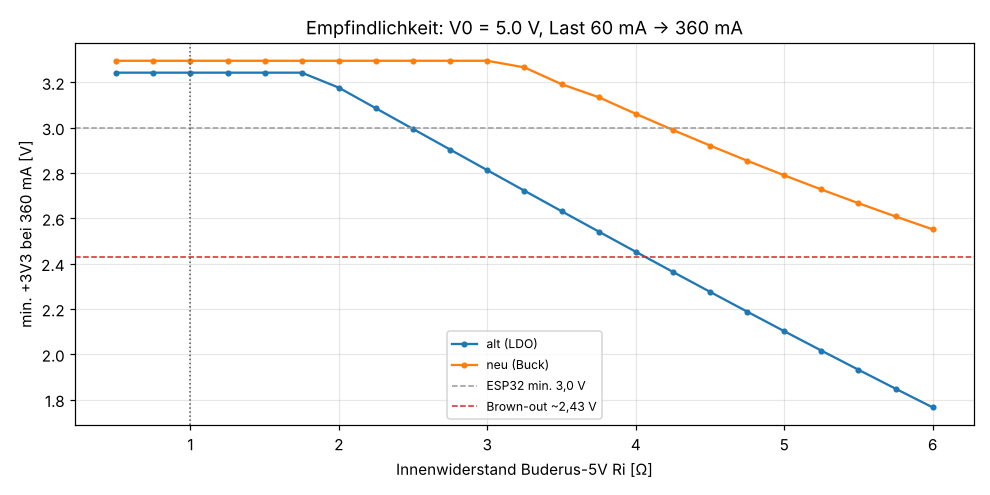
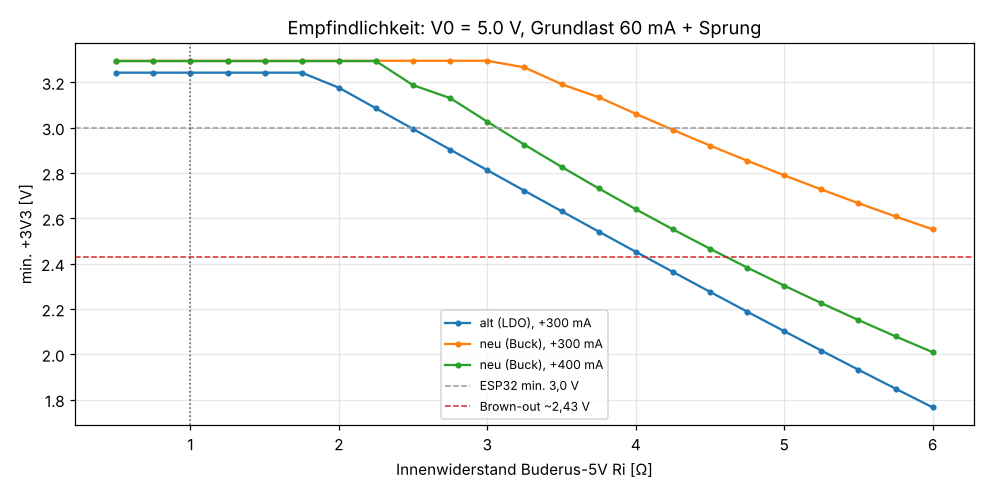
docs(power-analysis): buck simulation with 400 mA step (ESP32-S3 worst case)
Claude-Session: https://claude.ai/code/session_012skVH8CvU3SPyrYKeNYm1z

diff --git a/DOC/Power-Analysis/sim.py b/DOC/Power-Analysis/sim.py
@@ -18,6 +18,7 @@ V0     = 5.0      # Buderus 5 V rail, no-load (issue dewenni#57: 5.0..5.1 V meas
 RI     = 1.0      # assumed source impedance of the Buderus 5 V incl. slot contact
 I_BASE = 0.060    # ESP32 idle / WiFi RX, at 3V3
 I_STEP = 0.300    # load step (WiFi TX burst), at 3V3
+I_STEP_S3 = 0.400 # ESP32-S3 worst case: 355 mA TX peak + CPU/peripherals, at 3V3
 T_ON, T_OFF, T_END = 1e-3, 6e-3, 9e-3
 TR = 1e-6         # edge time of the load step
 BOD = 2.43        # ESP32 / ESP32-S3 brown-out level 0 / 7 (~2.43 / 2.44 V)
@@ -151,16 +152,19 @@ def zoom(results, fname):
         for i, (t0, lab) in enumerate([(T_ON, "Lastsprung +300 mA"), (T_OFF, "Lastabwurf −300 mA")]):
             m = (t > t0 - 50e-6) & (t < t0 + 400e-6)
             ax[i].plot((t[m] - t0) * 1e6, c[m, 2], label=k)
-            ax[i].set_title(lab); ax[i].set_xlabel("Zeit ab Flanke [µs]"); ax[i].grid(alpha=.3)
+            ax[i].set_title(lab.replace('300 mA', 'Sprung')); ax[i].set_xlabel("Zeit ab Flanke [µs]"); ax[i].grid(alpha=.3)
     ax[0].set_ylabel("+3V3 [V]"); ax[0].legend()
     fig.tight_layout(); fig.savefig(os.path.join(HERE, fname), dpi=110); plt.close(fig)
 
 def sweep(fname):
     ris = np.round(np.arange(0.5, 6.01, 0.25), 2)
-    res = {"alt (LDO)": [], "neu (Buck)": []}
+    cases = (("alt (LDO), +300 mA", old_circuit, I_STEP),
+             ("neu (Buck), +300 mA", new_circuit, I_STEP),
+             ("neu (Buck), +400 mA", new_circuit, I_STEP_S3))
+    res = {k: [] for k, _, _ in cases}
     for ri in ris:
-        for k, f in (("alt (LDO)", old_circuit), ("neu (Buck)", new_circuit)):
-            t, c = run(f(V0, ri))
+        for k, f, i_step in cases:
+            t, c = run(f(V0, ri, i_step))
             res[k].append(c[(t > T_ON), 2].min())
     fig, ax = plt.subplots(figsize=(9, 4.5))
     for k, v in res.items():
@@ -168,8 +172,8 @@ def sweep(fname):
     ax.axhline(VMIN_SPEC, color="#999", ls="--", lw=1, label="ESP32 min. 3,0 V")
     ax.axhline(BOD, color="#d62728", ls="--", lw=1, label="Brown-out ~2,43 V")
     ax.axvline(RI, color="#555", ls=":", lw=1)
-    ax.set_xlabel("Innenwiderstand Buderus-5V Ri [Ω]"); ax.set_ylabel("min. +3V3 bei 360 mA [V]")
-    ax.set_title(f"Empfindlichkeit: V0 = {V0} V, Last 60 mA → 360 mA")
+    ax.set_xlabel("Innenwiderstand Buderus-5V Ri [Ω]"); ax.set_ylabel("min. +3V3 [V]")
+    ax.set_title(f"Empfindlichkeit: V0 = {V0} V, Grundlast 60 mA + Sprung")
     ax.grid(alpha=.3); ax.legend(fontsize=8)
     fig.tight_layout(); fig.savefig(os.path.join(HERE, fname), dpi=110); plt.close(fig)
     return ris, res
@@ -181,9 +185,14 @@ if __name__ == "__main__":
     t2, c2 = run(new_circuit())
     s2 = plot_case(t2, c2, f"NEU: D9 + TPS62162-Buck, V0 = {V0} V, Ri = {RI} Ω, Last 60 → 360 mA",
                    "buck_1ohm.png", extra=c2[:, 5])
-    zoom({"alt (LDO)": (t1, c1), "neu (Buck)": (t2, c2)}, "zoom_edges.png")
+    t3, c3 = run(new_circuit(V0, RI, I_STEP_S3))
+    s3 = plot_case(t3, c3, f"NEU: D9 + TPS62162-Buck, V0 = {V0} V, Ri = {RI} Ω, Last 60 → 460 mA (S3)",
+                   "buck_1ohm_400mA.png", extra=c3[:, 5])
+    zoom({"alt (LDO), +300 mA": (t1, c1), "neu (Buck), +300 mA": (t2, c2),
+          "neu (Buck), +400 mA": (t3, c3)}, "zoom_edges.png")
     ris, res = sweep("sweep_ri.png")
     print("OLD", {k: round(float(v), 3) for k, v in s1.items()})
     print("NEW", {k: round(float(v), 3) for k, v in s2.items()})
+    print("NEW400", {k: round(float(v), 3) for k, v in s3.items()})
     for k, v in res.items():
         print(k, " ".join(f"{r}:{x:.2f}" for r, x in zip(ris, v)))

diff --git a/DOC/Power-Analysis/README.md b/DOC/Power-Analysis/README.md
@@ -8,6 +8,7 @@ Stand: 2026-11-17. Simulation mit ngspice und Verhaltensmodellen, Skript: [`sim.
 - **Das alte Design hat aber wenig Reserve.** Ab etwa **1,8 Ω** fällt der LDO aus der Regelung, und +3V3 sinkt linear mit Ri. Unter 3,0 V (ESP32-Minimum) geht es ab etwa **2,5 Ω**, der Brown-out wird bei etwa **4 Ω** erreicht.
 - **Der Buck (TPS62162 hinter D9) ist deutlich robuster.** Er regelt bis etwa **3 Ω** sauber auf 3,30 V, fällt erst ab etwa 4,2 Ω unter 3,0 V und erreicht bis 6 Ω keinen Brown-out. Der Einbruch am Lastsprung beträgt nur etwa 5 mV.
 - **Der Buck zieht weniger Strom aus der Buderus:** 292 mA statt 365 mA bei 360 mA Last an +3V3. Dadurch fällt auch an Ri weniger ab, obwohl D9 zusätzlich etwa 0,38 V kostet.
+- **ESP32-S3-Worst-Case mit +400 mA (60 → 460 mA):** Der Buck hält +3V3 bei 1 Ω weiterhin auf 3,29 V und zieht 386 mA aus der Buderus. Er regelt bis etwa **2,25 Ω** sauber, der Brown-out kommt erst bei etwa **4,6 Ω** ([Details](#neu-mit-400-ma-sprung-esp32-s3-worst-case)).
 
 Die Vermutung, dass 1 Ω allein den ESP32 an den Brown-out bringt, bestätigt die Simulation also **nicht**. Damit Nutzer mit dem alten Board Resets sehen, muss die effektive Quellimpedanz zeitweise deutlich größer sein (≥ 2…4 Ω) oder die Leerlaufspannung niedriger. Mögliche Ursachen siehe [Diskussion](#diskussion).
 
@@ -66,6 +67,24 @@ U2 (AZ1117) und R79 sind im neuen Stand DNP und nicht modelliert.
 - Strom aus der Buderus: **292 mA** bei 360 mA an +3V3 (Wirkungsgrad im Modell: Buck ≈ 94 %, inklusive D9 ≈ 86 %)
 - +3V3: Einbruch **< 5 mV**. Die 220-µF-Polymer-Elkos glätten den Sprung fast vollständig.
 
+## Neu mit 400-mA-Sprung (ESP32-S3-Worst-Case)
+
+Der S3 zieht beim Senden bis zu 355 mA, dazu kommen CPU und Peripherie (siehe [ESP32 vs. ESP32-S3](#esp32-vs-esp32-s3-stromaufnahme)). Deshalb wurde das neue Design zusätzlich mit einem Sprung von **+400 mA** simuliert (60 → 460 mA an +3V3), bei sonst gleichen Bedingungen (V0 = 5,0 V, Ri = 1 Ω).
+
+![Buck 400 mA](buck_1ohm_400mA.png)
+
+| Größe | +300 mA | +400 mA |
+|---|---|---|
+| Strom aus der Buderus | 292 mA | 386 mA |
+| Steckplatz J1 min. | 4,71 V | 4,61 V |
+| +5V hinter D9 min. | 4,32 V | 4,20 V |
+| +3V3 Einbruch | < 5 mV | < 7 mV |
+| Regelt sauber bis Ri ≈ | 3,0 Ω | 2,25 Ω |
+| unter 3,0 V ab Ri ≈ | 4,2 Ω | 3,1 Ω |
+| Brown-out ab Ri ≈ | > 6 Ω | 4,6 Ω |
+
+Auch mit 400 mA bleibt der Buck bei 1 Ω weit von jeder Grenze entfernt. Er zieht dann etwa so viel Strom aus der Buderus (386 mA) wie das alte LDO-Board bei nur 300 mA (365 mA). Die Reserve gegenüber Ri ist aber kleiner: Ab etwa 2,25 Ω läuft der Buck in den 100-%-Modus, und ab etwa 4,6 Ω erreicht +3V3 den Brown-out. Das sind immer noch gut 0,5 Ω mehr als beim alten Board mit dem kleineren Sprung.
+
 ## Flanken im Detail
 
 ![Zoom](zoom_edges.png)
@@ -76,14 +95,15 @@ Das Überschwingen des LDO stammt zum Teil vom einfachen Regelkreismodell. Die G
 
 ![Sweep](sweep_ri.png)
 
-| Ri | min. +3V3 alt (LDO) | min. +3V3 neu (Buck) |
-|---|---|---|
-| 1,0 Ω | 3,24 V | 3,30 V |
-| 2,0 Ω | 3,18 V | 3,30 V |
-| 3,0 Ω | 2,81 V | 3,30 V |
-| 4,0 Ω | 2,45 V (Brown-out-Grenze) | 3,06 V |
-| 5,0 Ω | 2,10 V | 2,79 V |
-| 6,0 Ω | 1,77 V | 2,55 V |
+| Ri | alt (LDO), +300 mA | neu (Buck), +300 mA | neu (Buck), +400 mA |
+|---|---|---|---|
+| 1,0 Ω | 3,24 V | 3,30 V | 3,29 V |
+| 2,0 Ω | 3,18 V | 3,30 V | 3,29 V |
+| 2,5 Ω | 2,99 V | 3,30 V | 3,19 V |
+| 3,0 Ω | 2,81 V | 3,30 V | 3,03 V |
+| 4,0 Ω | 2,45 V (Brown-out-Grenze) | 3,06 V | 2,64 V |
+| 5,0 Ω | 2,10 V | 2,79 V | 2,30 V |
+| 6,0 Ω | 1,77 V | 2,55 V | 2,01 V |
 
 Faustformel alt: Der LDO regelt, solange `V0 − Ri·I ≥ 3,3 V + 1,0 V + 0,25 Ω·I`. Bei 360 mA heißt das Ri ≤ (5,0 − 4,39) / 0,365 ≈ 1,7 Ω.
 
